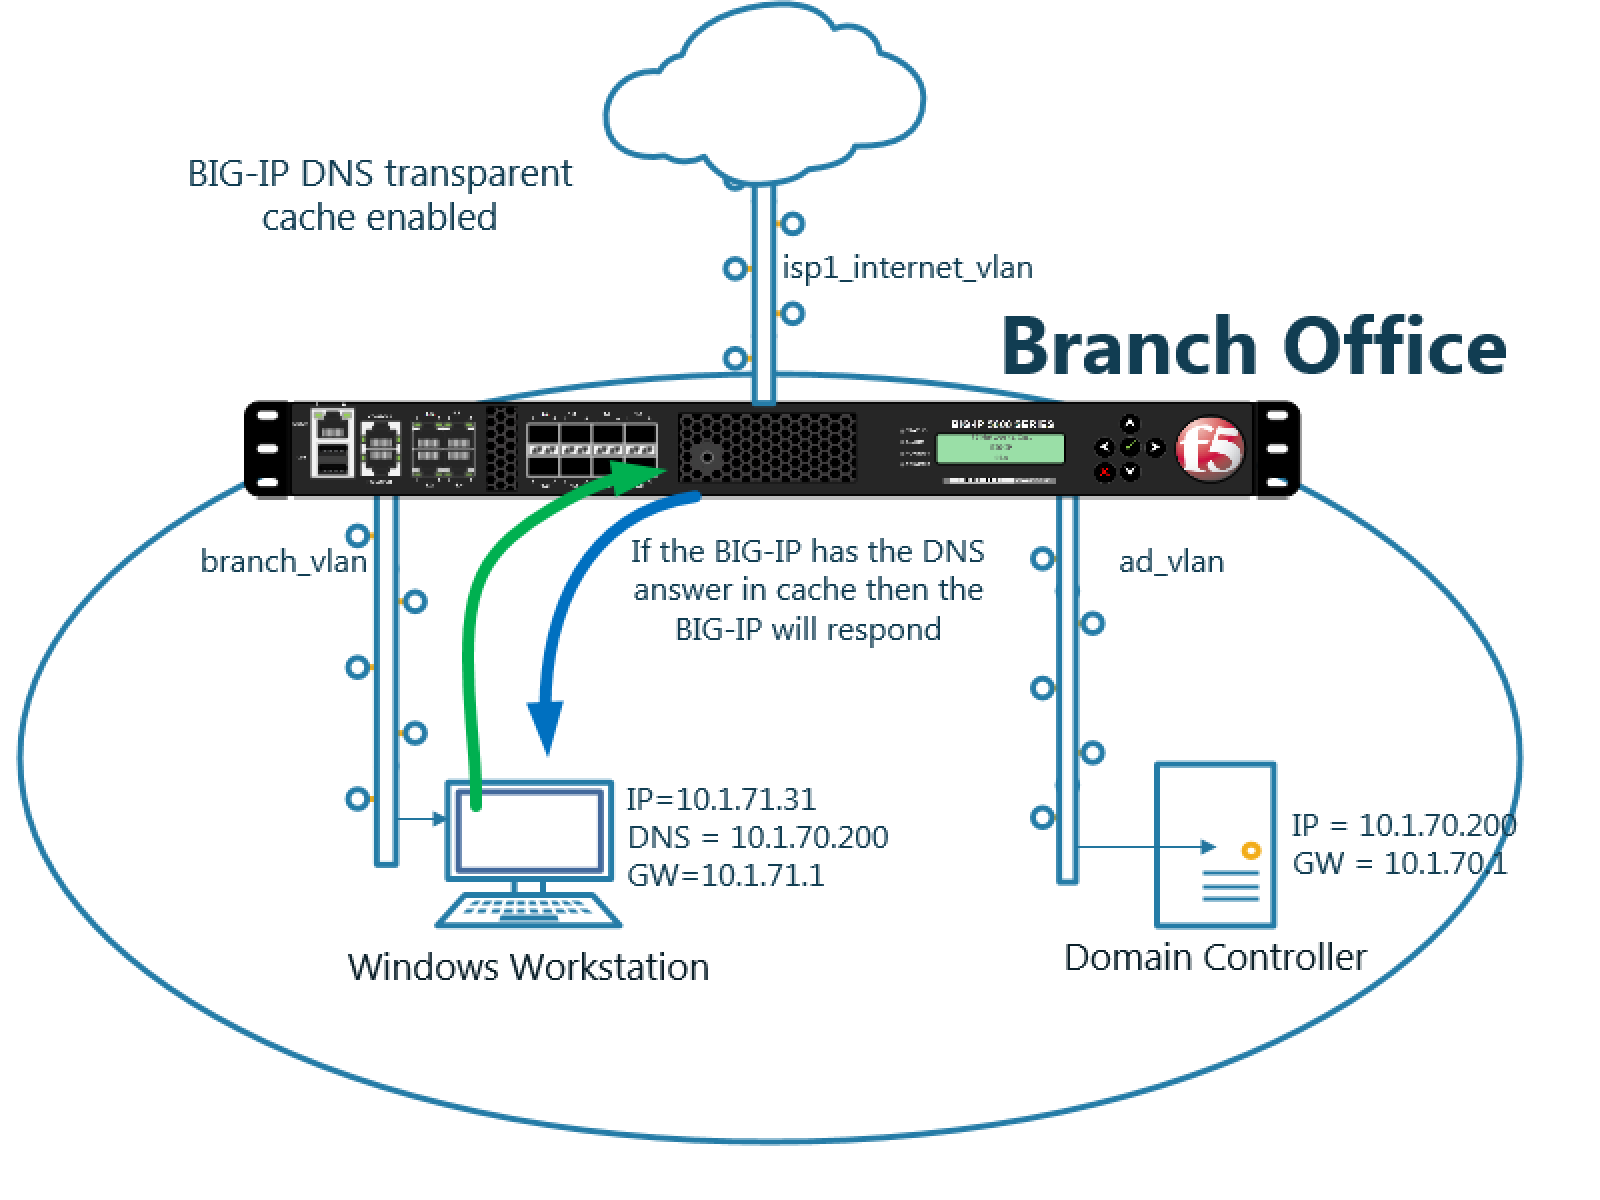
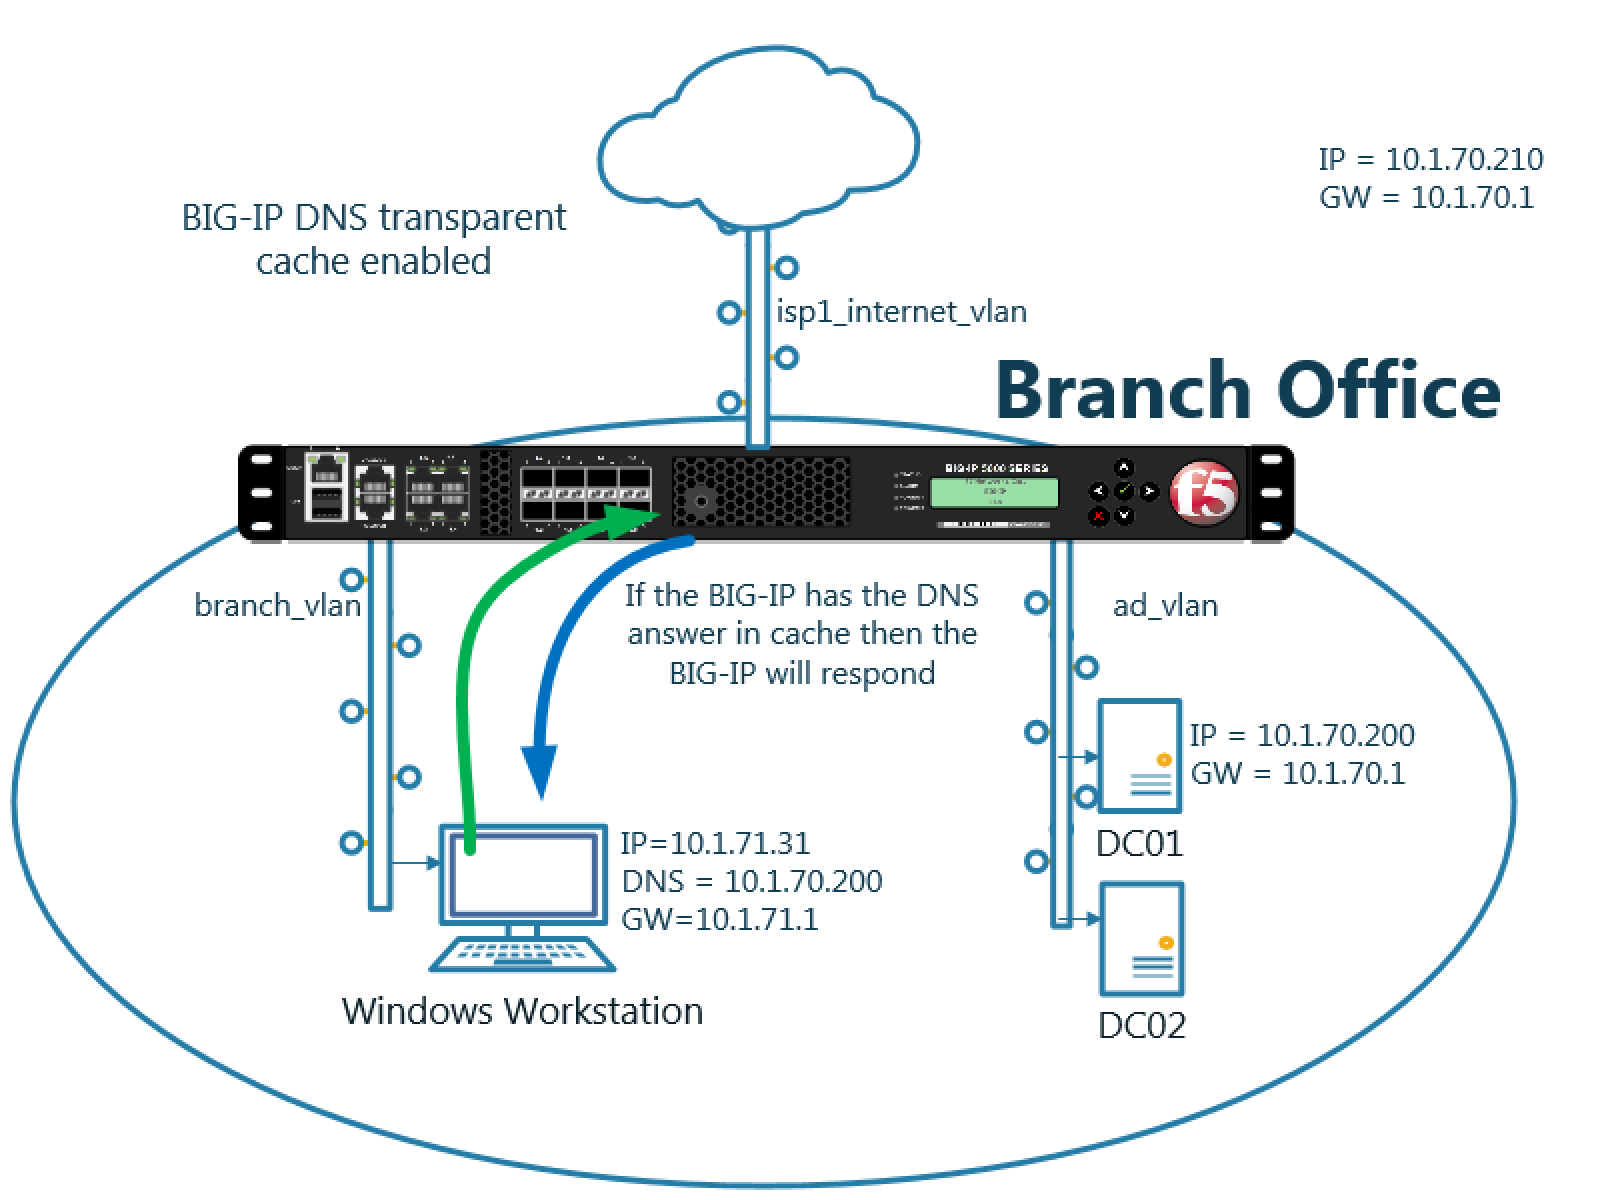
added monitor and pool for transparent cache

Changed region(s): [[0.0, 0.0, 0.9688, 1.0], [0.8125, 0.1233, 0.9688, 0.185]]

diff --git a/docs/class2/module1/lab2.rst b/docs/class2/module1/lab2.rst
@@ -1,0 +1,31 @@
+DNS Server Pool
+####################################
+
+Define a pool of internal DNS servers to send the DNS query to when the BIG-IP cache does not have the answer.
+
+Navigate to: **Delivery : Load Balancing : Pools : Pool List**
+
+https://router01.branch01.example.com/tmui/Control/jspmap/tmui/dns/pool/create.jsp
+
+.. image:: /_static/class2/class2_dns__pool_create_flyout.png
+
+Create a pool according to the following table:
+
+.. csv-table::
+   :header: "Setting", "Value"
+   :widths: 15, 15
+
+   "Name", "branch01_dns_pool"
+   "Health Monitors", "example.com_dns_monitor"
+   "1. Nade Name", "dc01.branch01.example.com_node"
+   "1. Address", "10.1.70.200"
+   "1. Service Port", "53"
+   "2. Nade Name", "dc02.branch01example.com_node"
+   "2. Address", "10.1.70.210"
+   "2. Service Port", "53"
+
+.. image:: /_static/class2/class2_create_dns_pool_properties.png
+
+.. admonition:: TMSH
+
+   tmsh create ltm pool branch01_dns_pool members add { dc01.branch01.example.com_node:53 { address 10.1.70.200 }  dc02.branch01.example.com_node:53 { address 10.1.70.210 } }

diff --git a/docs/class2/class2.rst b/docs/class2/class2.rst
@@ -1,13 +1,17 @@
 Class 2 - Security
 =============================
 
-TODO create a nice overview page here
+The lab is contained in a remote location where F5 BIG-IP is the default gateway for internal corporate networks.
 
-TODO: change the resolver to a validating resolver
+The F5 is pre-configured as a firewall device sitting on the ISP vlans and internal vlans.
 
-https://www.youtube.com/watch?v=opUE7vSvZE8
+Students will migrate the existing DNS topology where two Active Directory servers are handling local DNS.
 
-https://www.youtube.com/watch?v=MrtsKTC3KDM
+The F5 will intercept DNS queries which would normally be routed directely to the Domain Controller IP.
+
+The BIG-IP will intercept all DNS requests and perform DNS security.
+
+Students will learn how to implement the following concepts and learn how to migrate to a secure DNS infrastructure.
 
 .. toctree::
    :hidden:
@@ -16,3 +20,6 @@ https://www.youtube.com/watch?v=MrtsKTC3KDM
    :glob:
 
    module*/module*
+
+.. image:: /_static/class2/class2_overview.png
+

diff --git a/docs/class2/module1/lab1.rst b/docs/class2/module1/lab1.rst
@@ -1,6 +1,27 @@
-DNS Server Pool
+Health Monitor
 ####################################
 
-Define a pool of internal DNS servers to send the DNS query to when the BIG-IP cache does not have the answer.
+Before we create a pool of DNS servers we need to define our health monitor.
 
-Navigate to 
+Navigate to: **Delivery : Load Balancing : Pools : Pool List**
+
+https://router01.branch01.example.com/tmui/Control/jspmap/tmui/dns/monitor/create.jsp
+
+.. image:: /_static/class2/class2_create_health-monitor_flyout.png
+
+Create a pool according to the following table:
+
+.. csv-table::
+   :header: "Setting", "Value"
+   :widths: 15, 15
+
+   "Name", "example.com_dns_monitor"
+   "Type", "DNS"
+   "Query Name", "www.example.com"
+
+.. image:: /_static/class2/class2_dns_monitor_create_properties.png
+
+.. admonition:: TMSH
+ 
+   tmsh create ltm monitor dns example.com_dns_monitor defaults-from dns qname www.example.com
+

diff --git a/docs/class1/module2/lab3.rst b/docs/class1/module2/lab3.rst
@@ -20,7 +20,7 @@ Create a new UDP profile as shown in the following table. Retain the defaults if
    "Name", "example.com_udp-dns_profile"
    "Parent Profile", "udp_gtm_dns"
 
-.. images:: /_static/class1/udp-dns_profile.png
+.. image:: /_static/class1/udp-dns_profile.png
 
 TMSH command for both gtm1.site1 and gtm1.site2:
 

diff --git a/docs/class2/module5/lab1.rst b/docs/class2/module5/lab1.rst
@@ -38,7 +38,7 @@ Create a resource record according to the following table:
 
    "View Name", "external"
    "Zone Name", "rpz.example.com"
-   "Name", "\*.guns.com.rpz.example.com"
+   "Name", "\*.guns.com.rpz.example.com."
    "TTL", "300"
    "Type", "CNAME"
    "CNAME", "."
